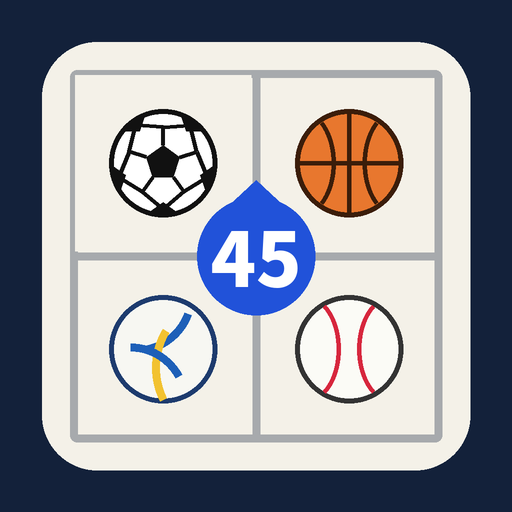
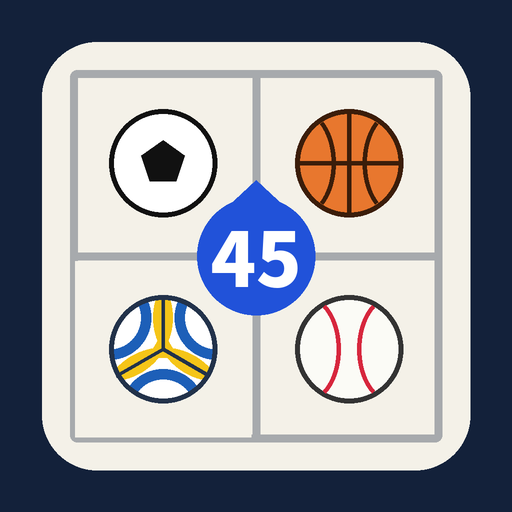
全競技の初期配置を試合開始時の配置に（ジャンプボール・スローオフ・サーブ・キックオフ）、「試合開始の配置に戻す」を追加、Multiアイコンのバレーボールを描き直しサッカーボールを元に戻す
Claude-Session: https://claude.ai/code/session_01TVagV47E5hzmgnrl5k2lgn

diff --git a/index.html b/index.html
@@ -212,6 +212,7 @@ a.btn{color:var(--ink)}a.btn.primary{color:var(--accent-ink)}
   <button class="mi" id="bMulti" role="menuitemcheckbox" aria-pressed="false" data-i18n="multi"></button>
   <button class="mi" id="bFace" role="menuitem" data-i18n="faceBall"></button>
   <button class="mi" id="bRotate" role="menuitem" hidden data-i18n="rotate"></button>
+  <button class="mi" id="bReset" role="menuitem" data-i18n="resetStart"></button>
   <button class="mi" id="bClearDraw" role="menuitem" data-i18n="clearDraw"></button>
   <hr>
   <button class="mi" id="bNames" role="menuitemcheckbox" aria-pressed="true" data-i18n="showNames"></button>
@@ -399,12 +400,16 @@ const POS={
 };
 const FN=(l,s)=>({l,s});
 /* ---- basketball (28 x 15 m, attack →, basket at x=.944) ---- */
+const bkc=(dx,dy,pos)=>[(14+dx)/28,(7.5+dy)/15,pos], bkr=(deg,pos)=>bkc(3*Math.cos(deg*Math.PI/180),3*Math.sin(deg*Math.PI/180),pos);
+const BK_TIP=PL('ジャンプボール（試合開始）','Jump ball (tip-off)','跳球（开场）','跳球（開場）');
 const BK_OFF={5:{
+ tip:FN(BK_TIP,[bkr(135,'PG'),bkr(225,'SG'),bkr(45,'SF'),bkr(315,'PF'),bkc(-.6,0,'C')]),
  '5out':FN(PL('5アウト','5-out','五外','五外'),[[.675,.5,'PG'],[.768,.827,'SG'],[.768,.173,'SF'],[.93,.94,'PF'],[.93,.06,'C']]),
  '4out':FN(PL('4アウト1イン','4-out 1-in','四外一内','四外一內'),[[.675,.5,'PG'],[.768,.827,'SG'],[.768,.173,'SF'],[.93,.94,'PF'],[.885,.36,'C']]),
  horns:FN(PL('ホーンズ','Horns','牛角','牛角'),[[.675,.5,'PG'],[.93,.94,'SG'],[.93,.06,'SF'],[.79,.337,'PF'],[.79,.663,'C']]),
  '131':FN(PL('1-3-1','1-3-1','1-3-1','1-3-1'),[[.68,.5,'PG'],[.8,.88,'SG'],[.8,.12,'SF'],[.94,.3,'PF'],[.79,.5,'C']])}};
 const BK_DEF={5:{
+ tip:FN(BK_TIP,[bkr(180,'PG'),bkr(90,'SG'),bkr(270,'SF'),bkr(0,'PF'),bkc(.6,0,'C')]),
  man:FN(PL('マンツーマン','Man-to-man','人盯人','人盯人'),[[.756,.5,'PG'],[.82,.73,'SG'],[.82,.27,'SF'],[.934,.8,'PF'],[.934,.2,'C']]),
  z23:FN(PL('2-3ゾーン','2-3 zone','2-3联防','2-3區域'),[[.78,.35,'PG'],[.78,.65,'SG'],[.92,.2,'SF'],[.92,.8,'PF'],[.93,.5,'C']]),
  z32:FN(PL('3-2ゾーン','3-2 zone','3-2联防','3-2區域'),[[.73,.5,'PG'],[.79,.2,'SG'],[.79,.8,'SF'],[.9,.37,'PF'],[.9,.63,'C']]),
@@ -413,6 +418,7 @@ const BK_DEF={5:{
 const hbArc=(r,deg)=>[(40-r*Math.cos(deg*Math.PI/180))/40,(10+r*Math.sin(deg*Math.PI/180))/20];
 const hbD=(r,deg)=>[...hbArc(r,deg),'D'];
 const HB_OFF={7:{
+ throwoff:FN(PL('スローオフ（試合開始）','Throw-off (start)','开球（开场）','開球（開場）'),[[.0125,.5,'GK'],[.45,.06,'LW'],[.38,.27,'LB'],[.49,.5,'CB'],[.38,.73,'RB'],[.45,.94,'RW'],[.44,.4,'PV']]),
  '33':FN(PL('3-3','3-3','3-3','3-3'),[[.0125,.5,'GK'],[.95,.06,'LW'],[.75,.26,'LB'],[.72,.5,'CB'],[.75,.74,'RB'],[.95,.94,'RW'],[.84,.5,'PV']]),
  '2pv':FN(PL('2ポスト','Two pivots','双底线','雙底線'),[[.0125,.5,'GK'],[.95,.06,'LW'],[.74,.3,'LB'],[.74,.7,'RB'],[.95,.94,'RW'],[.84,.38,'PV'],[.84,.62,'PV']])}};
 const HB_DEF={7:{
@@ -423,8 +429,10 @@ const HB_DEF={7:{
 const V6=[[.46,.7,'S'],[.875,.7,'OH'],[.875,.5,'MB'],[.875,.3,'OP'],[.46,.3,'OH'],[.46,.5,'MB']]; // slot k = rotation position k+1
 const VB6={6:{base:FN(PL('ローテーション1（Sが後衛ライト）','Rotation 1 (setter in 1)','轮转1（二传在1号位）','輪轉1（舉球員在1號位）'),V6)},
  7:{base:FN(PL('ローテーション1＋リベロ','Rotation 1 + libero','轮转1＋自由人','輪轉1＋自由球員'),[...V6,[.12,.9,'L']])}};
+const VB6S={6:{serve:FN(PL('サーブ（ローテーション1・試合開始）','Serve (rotation 1, start)','发球（轮转1・开场）','發球（輪轉1・開場）'),[[.13,.7,'S'],...V6.slice(1)]),...VB6[6]},7:VB6[7]};
 const VB9={9:{base:FN(PL('基本（前衛・中衛・後衛）','Basic (3 rows)','基本（三排）','基本（三排）'),
  [[.885,.33,'FL'],[.885,.5,'FC'],[.885,.67,'FR'],[.615,.33,'ML'],[.615,.5,'MC'],[.615,.67,'MR'],[.31,.33,'BL'],[.31,.5,'BC'],[.31,.67,'BR']])}};
+const VB9S={9:{serve:FN(PL('サーブ（試合開始）','Serve (start)','发球（开场）','發球（開場）'),[...VB9[9].base.s.slice(0,8),[.1,.67,'BR']]),...VB9[9]}};
 /* ---- dodgeball (court 20 x 10 m + 3 m outer zone: 26 x 16 m) ---- */
 function dgInner(n){const r=[],rows=Math.max(1,Math.ceil(n/4));let k=0;
   for(let i=0;i<rows;i++){const m=Math.ceil((n-k)/(rows-i));for(let j=0;j<m;j++)r.push([.36+(rows==1?.27:i*(.44/(rows-1))),.26+(j+.5)*(.48/m),'IN']);k+=m}return r}
@@ -443,9 +451,11 @@ function dgReclass(){
 }
 const dgGen=(ti,n)=>n<2?dgInner(n):[...dgInner(n-1),DG_OUT[0]];
 /* ---- tag rugby (field 40 x 30 m + 5 m in-goal: 50 x 30 m) ---- */
+const TR0={5:{start:FN(PL('キックオフ（試合開始）','Kick-off (start)','开球（开场）','開球（開場）'),[[.8,.15,'X'],[.8,.325,'X'],[.98,.5,'X'],[.8,.675,'X'],[.8,.85,'X']])}};
 const TR={5:{flat:FN(PL('フラット（横一列）','Flat line','平行站位','平行站位'),[[.8,.15,'X'],[.8,.325,'X'],[.8,.5,'X'],[.8,.675,'X'],[.8,.85,'X']]),
  wedge:FN(PL('くさび形','Wedge','楔形','楔形'),[[.86,.5,'X'],[.77,.34,'X'],[.77,.66,'X'],[.68,.18,'X'],[.68,.82,'X']]),
  deep:FN(PL('2列（深め）','Two lines (deep)','两排（纵深）','兩排（縱深）'),[[.84,.3,'X'],[.84,.7,'X'],[.7,.15,'X'],[.7,.5,'X'],[.7,.85,'X']])}};
+TR0[5]={...TR0[5],...TR[5]};
 const trGen=(ti,n)=>Array.from({length:n},(_,j)=>[.8,(j+.5)/n,'X']);
 /* ---- baseball family: home at the bottom, field opens upward ---- */
 function bbSport(o){
@@ -478,23 +488,23 @@ const SPORTS={
  soccer:{len:105,wid:68,kind:'fb',emoji:'⚽',zones:true},
  soccer8:{len:68,wid:50,kind:'fb',emoji:'⚽',def:[[8,'3-3-1'],[8,'2-3-2']],draw:drawSoccer8},
  futsal:{len:40,wid:20,kind:'fb',emoji:'🥅',surface:'wood',cnt:[[1,7],[1,7]],def:[[5,'1-2-1'],[5,'2-2']],draw:drawFutsal},
- basketball:{len:28,wid:15,kind:'abs',emoji:'🏀',ball:'basket',surface:'wood',names:['offense','defense'],cnt:[[1,5],[1,5]],def:[[5,'5out'],[5,'man']],
-   forms:[BK_OFF,BK_DEF],face:[[.944,.5],null],ballXY:[.64,.5],regs:['PG','SG','SF','PF','C'],shape:BK_SHAPE,draw:()=>drawBasket(true)},
- minibasket:{len:28,wid:15,kind:'abs',emoji:'🏀',ball:'basket',surface:'wood',names:['offense','defense'],cnt:[[1,5],[1,5]],def:[[5,'5out'],[5,'man']],
-   forms:[BK_OFF,BK_DEF],face:[[.944,.5],null],ballXY:[.64,.5],regs:['PG','SG','SF','PF','C'],shape:BK_SHAPE,draw:()=>drawBasket(false)},
- volley6:{len:24,wid:15,kind:'own',emoji:'🏐',ball:'volley',surface:'volley',cnt:[[1,7],[1,7]],def:[[6,'base'],[6,'base']],forms:[VB6,VB6],rotate:true,
-   ballXY:[.15,.7],regs:['S','OH','MB','OP','L'],shape:{S:'FW',OH:'MF',OP:'MF',MB:'DF',L:'GK'},draw:()=>drawVolley(6)},
- volley9:{len:26,wid:15.5,kind:'own',emoji:'🏐',ball:'volley',surface:'volley',cnt:[[1,9],[1,9]],def:[[9,'base'],[9,'base']],forms:[VB9,VB9],
-   ballXY:[.08,.6],regs:['FL','FC','FR','ML','MC','MR','BL','BC','BR'],shape:{FL:'FW',FC:'FW',FR:'FW',ML:'MF',MC:'MF',MR:'MF',BL:'DF',BC:'DF',BR:'DF'},draw:()=>drawVolley(9)},
- handball:{len:40,wid:20,kind:'abs',emoji:'🤾',ball:'hand',surface:'wood',names:['offense','defense'],cnt:[[1,7],[1,7]],def:[[7,'33'],[7,'60']],
-   forms:[HB_OFF,HB_DEF],face:[[1,.5],null],ballXY:[.69,.5],regs:['GK','LW','LB','CB','RB','RW','PV','D'],shape:{GK:'GK',LW:'FW',RW:'FW',PV:'FW',LB:'MF',CB:'MF',RB:'MF',D:'DF'},draw:drawHandball},
+ basketball:{len:28,wid:15,kind:'abs',emoji:'🏀',ball:'basket',surface:'wood',names:['offense','defense'],cnt:[[1,5],[1,5]],def:[[5,'tip'],[5,'tip']],
+   forms:[BK_OFF,BK_DEF],face:[[.944,.5],null],ballXY:[.5,.5],regs:['PG','SG','SF','PF','C'],shape:BK_SHAPE,draw:()=>drawBasket(true)},
+ minibasket:{len:28,wid:15,kind:'abs',emoji:'🏀',ball:'basket',surface:'wood',names:['offense','defense'],cnt:[[1,5],[1,5]],def:[[5,'tip'],[5,'tip']],
+   forms:[BK_OFF,BK_DEF],face:[[.944,.5],null],ballXY:[.5,.5],regs:['PG','SG','SF','PF','C'],shape:BK_SHAPE,draw:()=>drawBasket(false)},
+ volley6:{len:24,wid:15,kind:'own',emoji:'🏐',ball:'volley',surface:'volley',cnt:[[1,7],[1,7]],def:[[6,'serve'],[6,'base']],forms:[VB6S,VB6],rotate:true,
+   ballXY:[.075,.63],regs:['S','OH','MB','OP','L'],shape:{S:'FW',OH:'MF',OP:'MF',MB:'DF',L:'GK'},draw:()=>drawVolley(6)},
+ volley9:{len:26,wid:15.5,kind:'own',emoji:'🏐',ball:'volley',surface:'volley',cnt:[[1,9],[1,9]],def:[[9,'serve'],[9,'base']],forms:[VB9S,VB9],
+   ballXY:[.06,.6],regs:['FL','FC','FR','ML','MC','MR','BL','BC','BR'],shape:{FL:'FW',FC:'FW',FR:'FW',ML:'MF',MC:'MF',MR:'MF',BL:'DF',BC:'DF',BR:'DF'},draw:()=>drawVolley(9)},
+ handball:{len:40,wid:20,kind:'abs',emoji:'🤾',ball:'hand',surface:'wood',names:['offense','defense'],cnt:[[1,7],[1,7]],def:[[7,'throwoff'],[7,'60']],
+   forms:[HB_OFF,HB_DEF],face:[[1,.5],null],ballXY:[.52,.5],regs:['GK','LW','LB','CB','RB','RW','PV','D'],shape:{GK:'GK',LW:'FW',RW:'FW',PV:'FW',LB:'MF',CB:'MF',RB:'MF',D:'DF'},draw:drawHandball},
  dodgeball:{len:26,wid:16,kind:'own',emoji:'🔴',ball:'dodge',surface:'wood',cnt:[[1,15],[1,15]],def:[[12,'o1'],[12,'o1']],forms:[DG,DG],gen:dgGen,
    ballXY:[.5,.5],regs:['IN','OUT'],shape:{IN:'MF',OUT:'FW'},draw:drawDodge},
  baseball:bbSport({b:27.43,m:18.44,lf:76,cf:90}), /* outfield drawn shorter than real so the infield stays readable */
  youthbaseball:bbSport({b:23,m:16,lf:62,cf:72}),
  softball:bbSport({b:18.29,m:13.11,lf:50,cf:56,ball:'softball'}),
- tagrugby:{len:50,wid:30,kind:'own',emoji:'🏉',ball:'rugby',surface:'grass',cnt:[[1,8],[1,8]],def:[[5,'flat'],[5,'flat']],forms:[TR,TR],gen:trGen,noPos:true,
-   ballXY:[.4,.5],regs:[],shape:{},draw:drawTagRugby},
+ tagrugby:{len:50,wid:30,kind:'own',emoji:'🏉',ball:'rugby',surface:'grass',cnt:[[1,8],[1,8]],def:[[5,'start'],[5,'flat']],forms:[TR0,TR],gen:trGen,noPos:true,
+   ballXY:[.52,.5],regs:[],shape:{},draw:drawTagRugby},
  hockey:{len:91.4,wid:55,kind:'fb',emoji:'🏑',ball:'hockey',surface:'turf',draw:drawHockey}
 };
 SPORTS.baseball.emoji=SPORTS.youthbaseball.emoji='⚾';SPORTS.softball.emoji='🥎';
@@ -732,25 +742,25 @@ rotate:'ローテーション（時計回りに1つ）',offense:'オフェンス
 formHintG:'並び方を選ぶと、その形に並び直します。プリセットにない人数は自動で並びます。',rosterHintG:'ポジションを入れると、並び方を変えても そのポジションの場所に並びます。入れ終わったら「この配置に並べ直す」で並び直せます。',
 tOtherSport:'このファイルは「{s}」用です。45 Tactics Multiで開いてください',tSport:'{s}に切り替えました',
 print:'印刷・画像で保存',pTitle:'タイトル',pTitlePh:'例：11/3 練習試合',pDate:'日付',pContent:'内容',pCurrent:'今の盤面',pScenes:'保存した場面',pPer:'1ページの図',pRoster:'名簿を入れる',pMemo:'メモ欄を入れる',pBW:'白黒向けにする',pDo:'印刷・PDF',pImg:'画像で保存',
-pHint:'印刷画面で「PDFとして保存」を選ぶとPDFになります。iPhone・iPadで印刷できないときは「画像で保存」をお使いください。',memo:'メモ',tImg:'画像を書き出しました',noScenes:'保存した場面がありません',dgCount:'{t}：内野{a}人・外野{b}人'});
+pHint:'印刷画面で「PDFとして保存」を選ぶとPDFになります。iPhone・iPadで印刷できないときは「画像で保存」をお使いください。',memo:'メモ',tImg:'画像を書き出しました',noScenes:'保存した場面がありません',dgCount:'{t}：内野{a}人・外野{b}人',resetStart:'試合開始の配置に戻す',tResetStart:'試合開始の配置に戻しました（元に戻す で復元できます）'});
 Object.assign(I18N.en,{sport:'Sport',chooseSport:'Choose a sport',titleM:'Sports tactics board',aboutTextM:'A free, ad-free tactics board for many sports. Everything you enter is saved only on this device and is never visible to anyone else.',
 rotate:'Rotate (one position clockwise)',offense:'Offense',defense:'Defense',bbDef:'Fielding',bbOff:'Batting',bg_court:'Court (default)',bg_field:'Field (default)',
 formHintG:'Choose a formation to line the players up. Other team sizes are arranged automatically.',rosterHintG:'Set a position and the player goes to that spot when you change formation. Tap “Reset to this formation” when you are done.',
 tOtherSport:'This file is for {s}. Please open it in 45 Tactics Multi',tSport:'Switched to {s}',
 print:'Print / save image',pTitle:'Title',pTitlePh:'e.g. Practice match, 3 Nov',pDate:'Date',pContent:'Content',pCurrent:'Current board',pScenes:'Saved scenes',pPer:'Boards per page',pRoster:'Include roster',pMemo:'Include notes box',pBW:'Black & white',pDo:'Print / PDF',pImg:'Save as image',
-pHint:'Choose “Save as PDF” in the print dialog to make a PDF. If printing does not work on iPhone/iPad, use “Save as image”.',memo:'Notes',tImg:'Image exported',noScenes:'No saved scenes',dgCount:'{t}: {a} in / {b} out'});
+pHint:'Choose “Save as PDF” in the print dialog to make a PDF. If printing does not work on iPhone/iPad, use “Save as image”.',memo:'Notes',tImg:'Image exported',noScenes:'No saved scenes',dgCount:'{t}: {a} in / {b} out',resetStart:'Reset to start positions',tResetStart:'Reset to start positions (Undo to restore)'});
 Object.assign(I18N['zh-Hans'],{sport:'项目',chooseSport:'选择运动项目',titleM:'运动战术板',aboutTextM:'免费、无广告、支持多种运动的战术板。输入的内容只保存在本设备中，其他人看不到。',
 rotate:'轮转（顺时针移动一个位置）',offense:'进攻',defense:'防守',bbDef:'守备',bbOff:'进攻',bg_court:'球场（默认）',bg_field:'场地（默认）',
 formHintG:'选择阵型后按该形状重新排列。预设以外的人数会自动排列。',rosterHintG:'设置位置后，更换阵型时球员会站到该位置。设置完成后点击“按此阵型重新排列”。',
 tOtherSport:'此文件用于「{s}」，请在 45 Tactics Multi 中打开',tSport:'已切换为{s}',
 print:'打印・保存图片',pTitle:'标题',pTitlePh:'例：11/3 练习赛',pDate:'日期',pContent:'内容',pCurrent:'当前布阵',pScenes:'已保存的场景',pPer:'每页图数',pRoster:'包含名单',pMemo:'包含备注栏',pBW:'黑白打印',pDo:'打印・PDF',pImg:'保存为图片',
-pHint:'在打印画面选择“存储为PDF”即可生成PDF。iPhone/iPad 无法打印时，请使用“保存为图片”。',memo:'备注',tImg:'已导出图片',noScenes:'没有已保存的场景',dgCount:'{t}：内场{a}人・外场{b}人'});
+pHint:'在打印画面选择“存储为PDF”即可生成PDF。iPhone/iPad 无法打印时，请使用“保存为图片”。',memo:'备注',tImg:'已导出图片',noScenes:'没有已保存的场景',dgCount:'{t}：内场{a}人・外场{b}人',resetStart:'恢复开场站位',tResetStart:'已恢复开场站位（可撤销）'});
 Object.assign(I18N['zh-Hant'],{sport:'項目',chooseSport:'選擇運動項目',titleM:'運動戰術板',aboutTextM:'免費、無廣告、支援多種運動的戰術板。輸入的內容只會儲存在這台裝置中，其他人看不到。',
 rotate:'輪轉（順時針移動一個位置）',offense:'進攻',defense:'防守',bbDef:'守備',bbOff:'進攻',bg_court:'球場（預設）',bg_field:'場地（預設）',
 formHintG:'選擇陣型後依該形狀重新排列。預設以外的人數會自動排列。',rosterHintG:'設定位置後，變更陣型時球員會站到該位置。設定完成後點「依此陣型重新排列」。',
 tOtherSport:'此檔案用於「{s}」，請在 45 Tactics Multi 中開啟',tSport:'已切換為{s}',
 print:'列印・儲存圖片',pTitle:'標題',pTitlePh:'例：11/3 練習賽',pDate:'日期',pContent:'內容',pCurrent:'目前布陣',pScenes:'已儲存的場景',pPer:'每頁圖數',pRoster:'包含名單',pMemo:'包含備註欄',pBW:'黑白列印',pDo:'列印・PDF',pImg:'儲存為圖片',
-pHint:'在列印畫面選擇「儲存為PDF」即可產生PDF。iPhone/iPad 無法列印時，請使用「儲存為圖片」。',memo:'備註',tImg:'已匯出圖片',noScenes:'沒有已儲存的場景',dgCount:'{t}：內場{a}人・外場{b}人'});
+pHint:'在列印畫面選擇「儲存為PDF」即可產生PDF。iPhone/iPad 無法列印時，請使用「儲存為圖片」。',memo:'備註',tImg:'已匯出圖片',noScenes:'沒有已儲存的場景',dgCount:'{t}：內場{a}人・外場{b}人',resetStart:'恢復開場站位',tResetStart:'已恢復開場站位（可復原）'});
 const LANG_NAMES={ja:'日本語',en:'English','zh-Hans':'简体中文','zh-Hant':'繁體中文'};
 function detectLang(){
   const l=(navigator.language||'en').toLowerCase();
@@ -1502,6 +1512,9 @@ function switchSport(id){
 $('bSport').onclick=$('bSport2').onclick=()=>{renderSports();$('dSport').showModal()};
 $('sportList').addEventListener('click',e=>{const b=e.target.closest('[data-sport]');if(!b)return;$('dSport').close();if(b.dataset.sport!=SPID){switchSport(b.dataset.sport);toast(t('tSport',{s:sportName(SPID)}))}});
 $('bRotate').onclick=()=>rotateTeam(0);
+$('bReset').onclick=()=>{pushUndo();
+  S.teams.forEach((tm,ti)=>{const f=SP.def[ti];if(tm.count==f[0])tm.formation=f[1];else{const fs=formsFor(tm.count,ti);tm.formation=fs[0]||'auto'}tm.players.forEach(p=>{delete p.role;delete p.home});applyFormation(ti)});
+  S.ball={x:SP.ballXY[0]*W,y:SP.ballXY[1]*H};sel=null;msel=null;render();save();toast(t('tResetStart'))};
 
 /* ---------- print & image ---------- */
 const BOARD_CSS='text{font-family:"Zen Kaku Gothic New","Hiragino Sans","Hiragino Kaku Gothic ProN",system-ui,sans-serif}.num{font-family:"Barlow Condensed","Arial Narrow",sans-serif;font-weight:700;text-anchor:middle}.nm{font-weight:700;text-anchor:middle;fill:#fff;paint-order:stroke;stroke:#123A24;stroke-width:.5px;stroke-linejoin:round}.note{font-weight:700;text-anchor:middle;paint-order:stroke;stroke:rgba(0,0,0,.72);stroke-width:.6px;stroke-linejoin:round}.zl{font-weight:700;fill:rgba(255,255,255,.6)}';

diff --git a/multi/index.html b/multi/index.html
@@ -213,6 +213,7 @@ a.btn{color:var(--ink)}a.btn.primary{color:var(--accent-ink)}
   <button class="mi" id="bMulti" role="menuitemcheckbox" aria-pressed="false" data-i18n="multi"></button>
   <button class="mi" id="bFace" role="menuitem" data-i18n="faceBall"></button>
   <button class="mi" id="bRotate" role="menuitem" hidden data-i18n="rotate"></button>
+  <button class="mi" id="bReset" role="menuitem" data-i18n="resetStart"></button>
   <button class="mi" id="bClearDraw" role="menuitem" data-i18n="clearDraw"></button>
   <hr>
   <button class="mi" id="bNames" role="menuitemcheckbox" aria-pressed="true" data-i18n="showNames"></button>
@@ -400,12 +401,16 @@ const POS={
 };
 const FN=(l,s)=>({l,s});
 /* ---- basketball (28 x 15 m, attack →, basket at x=.944) ---- */
+const bkc=(dx,dy,pos)=>[(14+dx)/28,(7.5+dy)/15,pos], bkr=(deg,pos)=>bkc(3*Math.cos(deg*Math.PI/180),3*Math.sin(deg*Math.PI/180),pos);
+const BK_TIP=PL('ジャンプボール（試合開始）','Jump ball (tip-off)','跳球（开场）','跳球（開場）');
 const BK_OFF={5:{
+ tip:FN(BK_TIP,[bkr(135,'PG'),bkr(225,'SG'),bkr(45,'SF'),bkr(315,'PF'),bkc(-.6,0,'C')]),
  '5out':FN(PL('5アウト','5-out','五外','五外'),[[.675,.5,'PG'],[.768,.827,'SG'],[.768,.173,'SF'],[.93,.94,'PF'],[.93,.06,'C']]),
  '4out':FN(PL('4アウト1イン','4-out 1-in','四外一内','四外一內'),[[.675,.5,'PG'],[.768,.827,'SG'],[.768,.173,'SF'],[.93,.94,'PF'],[.885,.36,'C']]),
  horns:FN(PL('ホーンズ','Horns','牛角','牛角'),[[.675,.5,'PG'],[.93,.94,'SG'],[.93,.06,'SF'],[.79,.337,'PF'],[.79,.663,'C']]),
  '131':FN(PL('1-3-1','1-3-1','1-3-1','1-3-1'),[[.68,.5,'PG'],[.8,.88,'SG'],[.8,.12,'SF'],[.94,.3,'PF'],[.79,.5,'C']])}};
 const BK_DEF={5:{
+ tip:FN(BK_TIP,[bkr(180,'PG'),bkr(90,'SG'),bkr(270,'SF'),bkr(0,'PF'),bkc(.6,0,'C')]),
  man:FN(PL('マンツーマン','Man-to-man','人盯人','人盯人'),[[.756,.5,'PG'],[.82,.73,'SG'],[.82,.27,'SF'],[.934,.8,'PF'],[.934,.2,'C']]),
  z23:FN(PL('2-3ゾーン','2-3 zone','2-3联防','2-3區域'),[[.78,.35,'PG'],[.78,.65,'SG'],[.92,.2,'SF'],[.92,.8,'PF'],[.93,.5,'C']]),
  z32:FN(PL('3-2ゾーン','3-2 zone','3-2联防','3-2區域'),[[.73,.5,'PG'],[.79,.2,'SG'],[.79,.8,'SF'],[.9,.37,'PF'],[.9,.63,'C']]),
@@ -414,6 +419,7 @@ const BK_DEF={5:{
 const hbArc=(r,deg)=>[(40-r*Math.cos(deg*Math.PI/180))/40,(10+r*Math.sin(deg*Math.PI/180))/20];
 const hbD=(r,deg)=>[...hbArc(r,deg),'D'];
 const HB_OFF={7:{
+ throwoff:FN(PL('スローオフ（試合開始）','Throw-off (start)','开球（开场）','開球（開場）'),[[.0125,.5,'GK'],[.45,.06,'LW'],[.38,.27,'LB'],[.49,.5,'CB'],[.38,.73,'RB'],[.45,.94,'RW'],[.44,.4,'PV']]),
  '33':FN(PL('3-3','3-3','3-3','3-3'),[[.0125,.5,'GK'],[.95,.06,'LW'],[.75,.26,'LB'],[.72,.5,'CB'],[.75,.74,'RB'],[.95,.94,'RW'],[.84,.5,'PV']]),
  '2pv':FN(PL('2ポスト','Two pivots','双底线','雙底線'),[[.0125,.5,'GK'],[.95,.06,'LW'],[.74,.3,'LB'],[.74,.7,'RB'],[.95,.94,'RW'],[.84,.38,'PV'],[.84,.62,'PV']])}};
 const HB_DEF={7:{
@@ -424,8 +430,10 @@ const HB_DEF={7:{
 const V6=[[.46,.7,'S'],[.875,.7,'OH'],[.875,.5,'MB'],[.875,.3,'OP'],[.46,.3,'OH'],[.46,.5,'MB']]; // slot k = rotation position k+1
 const VB6={6:{base:FN(PL('ローテーション1（Sが後衛ライト）','Rotation 1 (setter in 1)','轮转1（二传在1号位）','輪轉1（舉球員在1號位）'),V6)},
  7:{base:FN(PL('ローテーション1＋リベロ','Rotation 1 + libero','轮转1＋自由人','輪轉1＋自由球員'),[...V6,[.12,.9,'L']])}};
+const VB6S={6:{serve:FN(PL('サーブ（ローテーション1・試合開始）','Serve (rotation 1, start)','发球（轮转1・开场）','發球（輪轉1・開場）'),[[.13,.7,'S'],...V6.slice(1)]),...VB6[6]},7:VB6[7]};
 const VB9={9:{base:FN(PL('基本（前衛・中衛・後衛）','Basic (3 rows)','基本（三排）','基本（三排）'),
  [[.885,.33,'FL'],[.885,.5,'FC'],[.885,.67,'FR'],[.615,.33,'ML'],[.615,.5,'MC'],[.615,.67,'MR'],[.31,.33,'BL'],[.31,.5,'BC'],[.31,.67,'BR']])}};
+const VB9S={9:{serve:FN(PL('サーブ（試合開始）','Serve (start)','发球（开场）','發球（開場）'),[...VB9[9].base.s.slice(0,8),[.1,.67,'BR']]),...VB9[9]}};
 /* ---- dodgeball (court 20 x 10 m + 3 m outer zone: 26 x 16 m) ---- */
 function dgInner(n){const r=[],rows=Math.max(1,Math.ceil(n/4));let k=0;
   for(let i=0;i<rows;i++){const m=Math.ceil((n-k)/(rows-i));for(let j=0;j<m;j++)r.push([.36+(rows==1?.27:i*(.44/(rows-1))),.26+(j+.5)*(.48/m),'IN']);k+=m}return r}
@@ -444,9 +452,11 @@ function dgReclass(){
 }
 const dgGen=(ti,n)=>n<2?dgInner(n):[...dgInner(n-1),DG_OUT[0]];
 /* ---- tag rugby (field 40 x 30 m + 5 m in-goal: 50 x 30 m) ---- */
+const TR0={5:{start:FN(PL('キックオフ（試合開始）','Kick-off (start)','开球（开场）','開球（開場）'),[[.8,.15,'X'],[.8,.325,'X'],[.98,.5,'X'],[.8,.675,'X'],[.8,.85,'X']])}};
 const TR={5:{flat:FN(PL('フラット（横一列）','Flat line','平行站位','平行站位'),[[.8,.15,'X'],[.8,.325,'X'],[.8,.5,'X'],[.8,.675,'X'],[.8,.85,'X']]),
  wedge:FN(PL('くさび形','Wedge','楔形','楔形'),[[.86,.5,'X'],[.77,.34,'X'],[.77,.66,'X'],[.68,.18,'X'],[.68,.82,'X']]),
  deep:FN(PL('2列（深め）','Two lines (deep)','两排（纵深）','兩排（縱深）'),[[.84,.3,'X'],[.84,.7,'X'],[.7,.15,'X'],[.7,.5,'X'],[.7,.85,'X']])}};
+TR0[5]={...TR0[5],...TR[5]};
 const trGen=(ti,n)=>Array.from({length:n},(_,j)=>[.8,(j+.5)/n,'X']);
 /* ---- baseball family: home at the bottom, field opens upward ---- */
 function bbSport(o){
@@ -479,23 +489,23 @@ const SPORTS={
  soccer:{len:105,wid:68,kind:'fb',emoji:'⚽',zones:true},
  soccer8:{len:68,wid:50,kind:'fb',emoji:'⚽',def:[[8,'3-3-1'],[8,'2-3-2']],draw:drawSoccer8},
  futsal:{len:40,wid:20,kind:'fb',emoji:'🥅',surface:'wood',cnt:[[1,7],[1,7]],def:[[5,'1-2-1'],[5,'2-2']],draw:drawFutsal},
- basketball:{len:28,wid:15,kind:'abs',emoji:'🏀',ball:'basket',surface:'wood',names:['offense','defense'],cnt:[[1,5],[1,5]],def:[[5,'5out'],[5,'man']],
-   forms:[BK_OFF,BK_DEF],face:[[.944,.5],null],ballXY:[.64,.5],regs:['PG','SG','SF','PF','C'],shape:BK_SHAPE,draw:()=>drawBasket(true)},
- minibasket:{len:28,wid:15,kind:'abs',emoji:'🏀',ball:'basket',surface:'wood',names:['offense','defense'],cnt:[[1,5],[1,5]],def:[[5,'5out'],[5,'man']],
-   forms:[BK_OFF,BK_DEF],face:[[.944,.5],null],ballXY:[.64,.5],regs:['PG','SG','SF','PF','C'],shape:BK_SHAPE,draw:()=>drawBasket(false)},
- volley6:{len:24,wid:15,kind:'own',emoji:'🏐',ball:'volley',surface:'volley',cnt:[[1,7],[1,7]],def:[[6,'base'],[6,'base']],forms:[VB6,VB6],rotate:true,
-   ballXY:[.15,.7],regs:['S','OH','MB','OP','L'],shape:{S:'FW',OH:'MF',OP:'MF',MB:'DF',L:'GK'},draw:()=>drawVolley(6)},
- volley9:{len:26,wid:15.5,kind:'own',emoji:'🏐',ball:'volley',surface:'volley',cnt:[[1,9],[1,9]],def:[[9,'base'],[9,'base']],forms:[VB9,VB9],
-   ballXY:[.08,.6],regs:['FL','FC','FR','ML','MC','MR','BL','BC','BR'],shape:{FL:'FW',FC:'FW',FR:'FW',ML:'MF',MC:'MF',MR:'MF',BL:'DF',BC:'DF',BR:'DF'},draw:()=>drawVolley(9)},
- handball:{len:40,wid:20,kind:'abs',emoji:'🤾',ball:'hand',surface:'wood',names:['offense','defense'],cnt:[[1,7],[1,7]],def:[[7,'33'],[7,'60']],
-   forms:[HB_OFF,HB_DEF],face:[[1,.5],null],ballXY:[.69,.5],regs:['GK','LW','LB','CB','RB','RW','PV','D'],shape:{GK:'GK',LW:'FW',RW:'FW',PV:'FW',LB:'MF',CB:'MF',RB:'MF',D:'DF'},draw:drawHandball},
+ basketball:{len:28,wid:15,kind:'abs',emoji:'🏀',ball:'basket',surface:'wood',names:['offense','defense'],cnt:[[1,5],[1,5]],def:[[5,'tip'],[5,'tip']],
+   forms:[BK_OFF,BK_DEF],face:[[.944,.5],null],ballXY:[.5,.5],regs:['PG','SG','SF','PF','C'],shape:BK_SHAPE,draw:()=>drawBasket(true)},
+ minibasket:{len:28,wid:15,kind:'abs',emoji:'🏀',ball:'basket',surface:'wood',names:['offense','defense'],cnt:[[1,5],[1,5]],def:[[5,'tip'],[5,'tip']],
+   forms:[BK_OFF,BK_DEF],face:[[.944,.5],null],ballXY:[.5,.5],regs:['PG','SG','SF','PF','C'],shape:BK_SHAPE,draw:()=>drawBasket(false)},
+ volley6:{len:24,wid:15,kind:'own',emoji:'🏐',ball:'volley',surface:'volley',cnt:[[1,7],[1,7]],def:[[6,'serve'],[6,'base']],forms:[VB6S,VB6],rotate:true,
+   ballXY:[.075,.63],regs:['S','OH','MB','OP','L'],shape:{S:'FW',OH:'MF',OP:'MF',MB:'DF',L:'GK'},draw:()=>drawVolley(6)},
+ volley9:{len:26,wid:15.5,kind:'own',emoji:'🏐',ball:'volley',surface:'volley',cnt:[[1,9],[1,9]],def:[[9,'serve'],[9,'base']],forms:[VB9S,VB9],
+   ballXY:[.06,.6],regs:['FL','FC','FR','ML','MC','MR','BL','BC','BR'],shape:{FL:'FW',FC:'FW',FR:'FW',ML:'MF',MC:'MF',MR:'MF',BL:'DF',BC:'DF',BR:'DF'},draw:()=>drawVolley(9)},
+ handball:{len:40,wid:20,kind:'abs',emoji:'🤾',ball:'hand',surface:'wood',names:['offense','defense'],cnt:[[1,7],[1,7]],def:[[7,'throwoff'],[7,'60']],
+   forms:[HB_OFF,HB_DEF],face:[[1,.5],null],ballXY:[.52,.5],regs:['GK','LW','LB','CB','RB','RW','PV','D'],shape:{GK:'GK',LW:'FW',RW:'FW',PV:'FW',LB:'MF',CB:'MF',RB:'MF',D:'DF'},draw:drawHandball},
  dodgeball:{len:26,wid:16,kind:'own',emoji:'🔴',ball:'dodge',surface:'wood',cnt:[[1,15],[1,15]],def:[[12,'o1'],[12,'o1']],forms:[DG,DG],gen:dgGen,
    ballXY:[.5,.5],regs:['IN','OUT'],shape:{IN:'MF',OUT:'FW'},draw:drawDodge},
  baseball:bbSport({b:27.43,m:18.44,lf:76,cf:90}), /* outfield drawn shorter than real so the infield stays readable */
  youthbaseball:bbSport({b:23,m:16,lf:62,cf:72}),
  softball:bbSport({b:18.29,m:13.11,lf:50,cf:56,ball:'softball'}),
- tagrugby:{len:50,wid:30,kind:'own',emoji:'🏉',ball:'rugby',surface:'grass',cnt:[[1,8],[1,8]],def:[[5,'flat'],[5,'flat']],forms:[TR,TR],gen:trGen,noPos:true,
-   ballXY:[.4,.5],regs:[],shape:{},draw:drawTagRugby},
+ tagrugby:{len:50,wid:30,kind:'own',emoji:'🏉',ball:'rugby',surface:'grass',cnt:[[1,8],[1,8]],def:[[5,'start'],[5,'flat']],forms:[TR0,TR],gen:trGen,noPos:true,
+   ballXY:[.52,.5],regs:[],shape:{},draw:drawTagRugby},
  hockey:{len:91.4,wid:55,kind:'fb',emoji:'🏑',ball:'hockey',surface:'turf',draw:drawHockey}
 };
 SPORTS.baseball.emoji=SPORTS.youthbaseball.emoji='⚾';SPORTS.softball.emoji='🥎';
@@ -733,25 +743,25 @@ rotate:'ローテーション（時計回りに1つ）',offense:'オフェンス
 formHintG:'並び方を選ぶと、その形に並び直します。プリセットにない人数は自動で並びます。',rosterHintG:'ポジションを入れると、並び方を変えても そのポジションの場所に並びます。入れ終わったら「この配置に並べ直す」で並び直せます。',
 tOtherSport:'このファイルは「{s}」用です。45 Tactics Multiで開いてください',tSport:'{s}に切り替えました',
 print:'印刷・画像で保存',pTitle:'タイトル',pTitlePh:'例：11/3 練習試合',pDate:'日付',pContent:'内容',pCurrent:'今の盤面',pScenes:'保存した場面',pPer:'1ページの図',pRoster:'名簿を入れる',pMemo:'メモ欄を入れる',pBW:'白黒向けにする',pDo:'印刷・PDF',pImg:'画像で保存',
-pHint:'印刷画面で「PDFとして保存」を選ぶとPDFになります。iPhone・iPadで印刷できないときは「画像で保存」をお使いください。',memo:'メモ',tImg:'画像を書き出しました',noScenes:'保存した場面がありません',dgCount:'{t}：内野{a}人・外野{b}人'});
+pHint:'印刷画面で「PDFとして保存」を選ぶとPDFになります。iPhone・iPadで印刷できないときは「画像で保存」をお使いください。',memo:'メモ',tImg:'画像を書き出しました',noScenes:'保存した場面がありません',dgCount:'{t}：内野{a}人・外野{b}人',resetStart:'試合開始の配置に戻す',tResetStart:'試合開始の配置に戻しました（元に戻す で復元できます）'});
 Object.assign(I18N.en,{sport:'Sport',chooseSport:'Choose a sport',titleM:'Sports tactics board',aboutTextM:'A free, ad-free tactics board for many sports. Everything you enter is saved only on this device and is never visible to anyone else.',
 rotate:'Rotate (one position clockwise)',offense:'Offense',defense:'Defense',bbDef:'Fielding',bbOff:'Batting',bg_court:'Court (default)',bg_field:'Field (default)',
 formHintG:'Choose a formation to line the players up. Other team sizes are arranged automatically.',rosterHintG:'Set a position and the player goes to that spot when you change formation. Tap “Reset to this formation” when you are done.',
 tOtherSport:'This file is for {s}. Please open it in 45 Tactics Multi',tSport:'Switched to {s}',
 print:'Print / save image',pTitle:'Title',pTitlePh:'e.g. Practice match, 3 Nov',pDate:'Date',pContent:'Content',pCurrent:'Current board',pScenes:'Saved scenes',pPer:'Boards per page',pRoster:'Include roster',pMemo:'Include notes box',pBW:'Black & white',pDo:'Print / PDF',pImg:'Save as image',
-pHint:'Choose “Save as PDF” in the print dialog to make a PDF. If printing does not work on iPhone/iPad, use “Save as image”.',memo:'Notes',tImg:'Image exported',noScenes:'No saved scenes',dgCount:'{t}: {a} in / {b} out'});
+pHint:'Choose “Save as PDF” in the print dialog to make a PDF. If printing does not work on iPhone/iPad, use “Save as image”.',memo:'Notes',tImg:'Image exported',noScenes:'No saved scenes',dgCount:'{t}: {a} in / {b} out',resetStart:'Reset to start positions',tResetStart:'Reset to start positions (Undo to restore)'});
 Object.assign(I18N['zh-Hans'],{sport:'项目',chooseSport:'选择运动项目',titleM:'运动战术板',aboutTextM:'免费、无广告、支持多种运动的战术板。输入的内容只保存在本设备中，其他人看不到。',
 rotate:'轮转（顺时针移动一个位置）',offense:'进攻',defense:'防守',bbDef:'守备',bbOff:'进攻',bg_court:'球场（默认）',bg_field:'场地（默认）',
 formHintG:'选择阵型后按该形状重新排列。预设以外的人数会自动排列。',rosterHintG:'设置位置后，更换阵型时球员会站到该位置。设置完成后点击“按此阵型重新排列”。',
 tOtherSport:'此文件用于「{s}」，请在 45 Tactics Multi 中打开',tSport:'已切换为{s}',
 print:'打印・保存图片',pTitle:'标题',pTitlePh:'例：11/3 练习赛',pDate:'日期',pContent:'内容',pCurrent:'当前布阵',pScenes:'已保存的场景',pPer:'每页图数',pRoster:'包含名单',pMemo:'包含备注栏',pBW:'黑白打印',pDo:'打印・PDF',pImg:'保存为图片',
-pHint:'在打印画面选择“存储为PDF”即可生成PDF。iPhone/iPad 无法打印时，请使用“保存为图片”。',memo:'备注',tImg:'已导出图片',noScenes:'没有已保存的场景',dgCount:'{t}：内场{a}人・外场{b}人'});
+pHint:'在打印画面选择“存储为PDF”即可生成PDF。iPhone/iPad 无法打印时，请使用“保存为图片”。',memo:'备注',tImg:'已导出图片',noScenes:'没有已保存的场景',dgCount:'{t}：内场{a}人・外场{b}人',resetStart:'恢复开场站位',tResetStart:'已恢复开场站位（可撤销）'});
 Object.assign(I18N['zh-Hant'],{sport:'項目',chooseSport:'選擇運動項目',titleM:'運動戰術板',aboutTextM:'免費、無廣告、支援多種運動的戰術板。輸入的內容只會儲存在這台裝置中，其他人看不到。',
 rotate:'輪轉（順時針移動一個位置）',offense:'進攻',defense:'防守',bbDef:'守備',bbOff:'進攻',bg_court:'球場（預設）',bg_field:'場地（預設）',
 formHintG:'選擇陣型後依該形狀重新排列。預設以外的人數會自動排列。',rosterHintG:'設定位置後，變更陣型時球員會站到該位置。設定完成後點「依此陣型重新排列」。',
 tOtherSport:'此檔案用於「{s}」，請在 45 Tactics Multi 中開啟',tSport:'已切換為{s}',
 print:'列印・儲存圖片',pTitle:'標題',pTitlePh:'例：11/3 練習賽',pDate:'日期',pContent:'內容',pCurrent:'目前布陣',pScenes:'已儲存的場景',pPer:'每頁圖數',pRoster:'包含名單',pMemo:'包含備註欄',pBW:'黑白列印',pDo:'列印・PDF',pImg:'儲存為圖片',
-pHint:'在列印畫面選擇「儲存為PDF」即可產生PDF。iPhone/iPad 無法列印時，請使用「儲存為圖片」。',memo:'備註',tImg:'已匯出圖片',noScenes:'沒有已儲存的場景',dgCount:'{t}：內場{a}人・外場{b}人'});
+pHint:'在列印畫面選擇「儲存為PDF」即可產生PDF。iPhone/iPad 無法列印時，請使用「儲存為圖片」。',memo:'備註',tImg:'已匯出圖片',noScenes:'沒有已儲存的場景',dgCount:'{t}：內場{a}人・外場{b}人',resetStart:'恢復開場站位',tResetStart:'已恢復開場站位（可復原）'});
 const LANG_NAMES={ja:'日本語',en:'English','zh-Hans':'简体中文','zh-Hant':'繁體中文'};
 function detectLang(){
   const l=(navigator.language||'en').toLowerCase();
@@ -1503,6 +1513,9 @@ function switchSport(id){
 $('bSport').onclick=$('bSport2').onclick=()=>{renderSports();$('dSport').showModal()};
 $('sportList').addEventListener('click',e=>{const b=e.target.closest('[data-sport]');if(!b)return;$('dSport').close();if(b.dataset.sport!=SPID){switchSport(b.dataset.sport);toast(t('tSport',{s:sportName(SPID)}))}});
 $('bRotate').onclick=()=>rotateTeam(0);
+$('bReset').onclick=()=>{pushUndo();
+  S.teams.forEach((tm,ti)=>{const f=SP.def[ti];if(tm.count==f[0])tm.formation=f[1];else{const fs=formsFor(tm.count,ti);tm.formation=fs[0]||'auto'}tm.players.forEach(p=>{delete p.role;delete p.home});applyFormation(ti)});
+  S.ball={x:SP.ballXY[0]*W,y:SP.ballXY[1]*H};sel=null;msel=null;render();save();toast(t('tResetStart'))};
 
 /* ---------- print & image ---------- */
 const BOARD_CSS='text{font-family:"Zen Kaku Gothic New","Hiragino Sans","Hiragino Kaku Gothic ProN",system-ui,sans-serif}.num{font-family:"Barlow Condensed","Arial Narrow",sans-serif;font-weight:700;text-anchor:middle}.nm{font-weight:700;text-anchor:middle;fill:#fff;paint-order:stroke;stroke:#123A24;stroke-width:.5px;stroke-linejoin:round}.note{font-weight:700;text-anchor:middle;paint-order:stroke;stroke:rgba(0,0,0,.72);stroke-width:.6px;stroke-linejoin:round}.zl{font-weight:700;fill:rgba(255,255,255,.6)}';

diff --git a/src/app.html b/src/app.html
@@ -212,6 +212,7 @@ a.btn{color:var(--ink)}a.btn.primary{color:var(--accent-ink)}
   <button class="mi" id="bMulti" role="menuitemcheckbox" aria-pressed="false" data-i18n="multi"></button>
   <button class="mi" id="bFace" role="menuitem" data-i18n="faceBall"></button>
   <button class="mi" id="bRotate" role="menuitem" hidden data-i18n="rotate"></button>
+  <button class="mi" id="bReset" role="menuitem" data-i18n="resetStart"></button>
   <button class="mi" id="bClearDraw" role="menuitem" data-i18n="clearDraw"></button>
   <hr>
   <button class="mi" id="bNames" role="menuitemcheckbox" aria-pressed="true" data-i18n="showNames"></button>
@@ -399,12 +400,16 @@ const POS={
 };
 const FN=(l,s)=>({l,s});
 /* ---- basketball (28 x 15 m, attack →, basket at x=.944) ---- */
+const bkc=(dx,dy,pos)=>[(14+dx)/28,(7.5+dy)/15,pos], bkr=(deg,pos)=>bkc(3*Math.cos(deg*Math.PI/180),3*Math.sin(deg*Math.PI/180),pos);
+const BK_TIP=PL('ジャンプボール（試合開始）','Jump ball (tip-off)','跳球（开场）','跳球（開場）');
 const BK_OFF={5:{
+ tip:FN(BK_TIP,[bkr(135,'PG'),bkr(225,'SG'),bkr(45,'SF'),bkr(315,'PF'),bkc(-.6,0,'C')]),
  '5out':FN(PL('5アウト','5-out','五外','五外'),[[.675,.5,'PG'],[.768,.827,'SG'],[.768,.173,'SF'],[.93,.94,'PF'],[.93,.06,'C']]),
  '4out':FN(PL('4アウト1イン','4-out 1-in','四外一内','四外一內'),[[.675,.5,'PG'],[.768,.827,'SG'],[.768,.173,'SF'],[.93,.94,'PF'],[.885,.36,'C']]),
  horns:FN(PL('ホーンズ','Horns','牛角','牛角'),[[.675,.5,'PG'],[.93,.94,'SG'],[.93,.06,'SF'],[.79,.337,'PF'],[.79,.663,'C']]),
  '131':FN(PL('1-3-1','1-3-1','1-3-1','1-3-1'),[[.68,.5,'PG'],[.8,.88,'SG'],[.8,.12,'SF'],[.94,.3,'PF'],[.79,.5,'C']])}};
 const BK_DEF={5:{
+ tip:FN(BK_TIP,[bkr(180,'PG'),bkr(90,'SG'),bkr(270,'SF'),bkr(0,'PF'),bkc(.6,0,'C')]),
  man:FN(PL('マンツーマン','Man-to-man','人盯人','人盯人'),[[.756,.5,'PG'],[.82,.73,'SG'],[.82,.27,'SF'],[.934,.8,'PF'],[.934,.2,'C']]),
  z23:FN(PL('2-3ゾーン','2-3 zone','2-3联防','2-3區域'),[[.78,.35,'PG'],[.78,.65,'SG'],[.92,.2,'SF'],[.92,.8,'PF'],[.93,.5,'C']]),
  z32:FN(PL('3-2ゾーン','3-2 zone','3-2联防','3-2區域'),[[.73,.5,'PG'],[.79,.2,'SG'],[.79,.8,'SF'],[.9,.37,'PF'],[.9,.63,'C']]),
@@ -413,6 +418,7 @@ const BK_DEF={5:{
 const hbArc=(r,deg)=>[(40-r*Math.cos(deg*Math.PI/180))/40,(10+r*Math.sin(deg*Math.PI/180))/20];
 const hbD=(r,deg)=>[...hbArc(r,deg),'D'];
 const HB_OFF={7:{
+ throwoff:FN(PL('スローオフ（試合開始）','Throw-off (start)','开球（开场）','開球（開場）'),[[.0125,.5,'GK'],[.45,.06,'LW'],[.38,.27,'LB'],[.49,.5,'CB'],[.38,.73,'RB'],[.45,.94,'RW'],[.44,.4,'PV']]),
  '33':FN(PL('3-3','3-3','3-3','3-3'),[[.0125,.5,'GK'],[.95,.06,'LW'],[.75,.26,'LB'],[.72,.5,'CB'],[.75,.74,'RB'],[.95,.94,'RW'],[.84,.5,'PV']]),
  '2pv':FN(PL('2ポスト','Two pivots','双底线','雙底線'),[[.0125,.5,'GK'],[.95,.06,'LW'],[.74,.3,'LB'],[.74,.7,'RB'],[.95,.94,'RW'],[.84,.38,'PV'],[.84,.62,'PV']])}};
 const HB_DEF={7:{
@@ -423,8 +429,10 @@ const HB_DEF={7:{
 const V6=[[.46,.7,'S'],[.875,.7,'OH'],[.875,.5,'MB'],[.875,.3,'OP'],[.46,.3,'OH'],[.46,.5,'MB']]; // slot k = rotation position k+1
 const VB6={6:{base:FN(PL('ローテーション1（Sが後衛ライト）','Rotation 1 (setter in 1)','轮转1（二传在1号位）','輪轉1（舉球員在1號位）'),V6)},
  7:{base:FN(PL('ローテーション1＋リベロ','Rotation 1 + libero','轮转1＋自由人','輪轉1＋自由球員'),[...V6,[.12,.9,'L']])}};
+const VB6S={6:{serve:FN(PL('サーブ（ローテーション1・試合開始）','Serve (rotation 1, start)','发球（轮转1・开场）','發球（輪轉1・開場）'),[[.13,.7,'S'],...V6.slice(1)]),...VB6[6]},7:VB6[7]};
 const VB9={9:{base:FN(PL('基本（前衛・中衛・後衛）','Basic (3 rows)','基本（三排）','基本（三排）'),
  [[.885,.33,'FL'],[.885,.5,'FC'],[.885,.67,'FR'],[.615,.33,'ML'],[.615,.5,'MC'],[.615,.67,'MR'],[.31,.33,'BL'],[.31,.5,'BC'],[.31,.67,'BR']])}};
+const VB9S={9:{serve:FN(PL('サーブ（試合開始）','Serve (start)','发球（开场）','發球（開場）'),[...VB9[9].base.s.slice(0,8),[.1,.67,'BR']]),...VB9[9]}};
 /* ---- dodgeball (court 20 x 10 m + 3 m outer zone: 26 x 16 m) ---- */
 function dgInner(n){const r=[],rows=Math.max(1,Math.ceil(n/4));let k=0;
   for(let i=0;i<rows;i++){const m=Math.ceil((n-k)/(rows-i));for(let j=0;j<m;j++)r.push([.36+(rows==1?.27:i*(.44/(rows-1))),.26+(j+.5)*(.48/m),'IN']);k+=m}return r}
@@ -443,9 +451,11 @@ function dgReclass(){
 }
 const dgGen=(ti,n)=>n<2?dgInner(n):[...dgInner(n-1),DG_OUT[0]];
 /* ---- tag rugby (field 40 x 30 m + 5 m in-goal: 50 x 30 m) ---- */
+const TR0={5:{start:FN(PL('キックオフ（試合開始）','Kick-off (start)','开球（开场）','開球（開場）'),[[.8,.15,'X'],[.8,.325,'X'],[.98,.5,'X'],[.8,.675,'X'],[.8,.85,'X']])}};
 const TR={5:{flat:FN(PL('フラット（横一列）','Flat line','平行站位','平行站位'),[[.8,.15,'X'],[.8,.325,'X'],[.8,.5,'X'],[.8,.675,'X'],[.8,.85,'X']]),
  wedge:FN(PL('くさび形','Wedge','楔形','楔形'),[[.86,.5,'X'],[.77,.34,'X'],[.77,.66,'X'],[.68,.18,'X'],[.68,.82,'X']]),
  deep:FN(PL('2列（深め）','Two lines (deep)','两排（纵深）','兩排（縱深）'),[[.84,.3,'X'],[.84,.7,'X'],[.7,.15,'X'],[.7,.5,'X'],[.7,.85,'X']])}};
+TR0[5]={...TR0[5],...TR[5]};
 const trGen=(ti,n)=>Array.from({length:n},(_,j)=>[.8,(j+.5)/n,'X']);
 /* ---- baseball family: home at the bottom, field opens upward ---- */
 function bbSport(o){
@@ -478,23 +488,23 @@ const SPORTS={
  soccer:{len:105,wid:68,kind:'fb',emoji:'⚽',zones:true},
  soccer8:{len:68,wid:50,kind:'fb',emoji:'⚽',def:[[8,'3-3-1'],[8,'2-3-2']],draw:drawSoccer8},
  futsal:{len:40,wid:20,kind:'fb',emoji:'🥅',surface:'wood',cnt:[[1,7],[1,7]],def:[[5,'1-2-1'],[5,'2-2']],draw:drawFutsal},
- basketball:{len:28,wid:15,kind:'abs',emoji:'🏀',ball:'basket',surface:'wood',names:['offense','defense'],cnt:[[1,5],[1,5]],def:[[5,'5out'],[5,'man']],
-   forms:[BK_OFF,BK_DEF],face:[[.944,.5],null],ballXY:[.64,.5],regs:['PG','SG','SF','PF','C'],shape:BK_SHAPE,draw:()=>drawBasket(true)},
- minibasket:{len:28,wid:15,kind:'abs',emoji:'🏀',ball:'basket',surface:'wood',names:['offense','defense'],cnt:[[1,5],[1,5]],def:[[5,'5out'],[5,'man']],
-   forms:[BK_OFF,BK_DEF],face:[[.944,.5],null],ballXY:[.64,.5],regs:['PG','SG','SF','PF','C'],shape:BK_SHAPE,draw:()=>drawBasket(false)},
- volley6:{len:24,wid:15,kind:'own',emoji:'🏐',ball:'volley',surface:'volley',cnt:[[1,7],[1,7]],def:[[6,'base'],[6,'base']],forms:[VB6,VB6],rotate:true,
-   ballXY:[.15,.7],regs:['S','OH','MB','OP','L'],shape:{S:'FW',OH:'MF',OP:'MF',MB:'DF',L:'GK'},draw:()=>drawVolley(6)},
- volley9:{len:26,wid:15.5,kind:'own',emoji:'🏐',ball:'volley',surface:'volley',cnt:[[1,9],[1,9]],def:[[9,'base'],[9,'base']],forms:[VB9,VB9],
-   ballXY:[.08,.6],regs:['FL','FC','FR','ML','MC','MR','BL','BC','BR'],shape:{FL:'FW',FC:'FW',FR:'FW',ML:'MF',MC:'MF',MR:'MF',BL:'DF',BC:'DF',BR:'DF'},draw:()=>drawVolley(9)},
- handball:{len:40,wid:20,kind:'abs',emoji:'🤾',ball:'hand',surface:'wood',names:['offense','defense'],cnt:[[1,7],[1,7]],def:[[7,'33'],[7,'60']],
-   forms:[HB_OFF,HB_DEF],face:[[1,.5],null],ballXY:[.69,.5],regs:['GK','LW','LB','CB','RB','RW','PV','D'],shape:{GK:'GK',LW:'FW',RW:'FW',PV:'FW',LB:'MF',CB:'MF',RB:'MF',D:'DF'},draw:drawHandball},
+ basketball:{len:28,wid:15,kind:'abs',emoji:'🏀',ball:'basket',surface:'wood',names:['offense','defense'],cnt:[[1,5],[1,5]],def:[[5,'tip'],[5,'tip']],
+   forms:[BK_OFF,BK_DEF],face:[[.944,.5],null],ballXY:[.5,.5],regs:['PG','SG','SF','PF','C'],shape:BK_SHAPE,draw:()=>drawBasket(true)},
+ minibasket:{len:28,wid:15,kind:'abs',emoji:'🏀',ball:'basket',surface:'wood',names:['offense','defense'],cnt:[[1,5],[1,5]],def:[[5,'tip'],[5,'tip']],
+   forms:[BK_OFF,BK_DEF],face:[[.944,.5],null],ballXY:[.5,.5],regs:['PG','SG','SF','PF','C'],shape:BK_SHAPE,draw:()=>drawBasket(false)},
+ volley6:{len:24,wid:15,kind:'own',emoji:'🏐',ball:'volley',surface:'volley',cnt:[[1,7],[1,7]],def:[[6,'serve'],[6,'base']],forms:[VB6S,VB6],rotate:true,
+   ballXY:[.075,.63],regs:['S','OH','MB','OP','L'],shape:{S:'FW',OH:'MF',OP:'MF',MB:'DF',L:'GK'},draw:()=>drawVolley(6)},
+ volley9:{len:26,wid:15.5,kind:'own',emoji:'🏐',ball:'volley',surface:'volley',cnt:[[1,9],[1,9]],def:[[9,'serve'],[9,'base']],forms:[VB9S,VB9],
+   ballXY:[.06,.6],regs:['FL','FC','FR','ML','MC','MR','BL','BC','BR'],shape:{FL:'FW',FC:'FW',FR:'FW',ML:'MF',MC:'MF',MR:'MF',BL:'DF',BC:'DF',BR:'DF'},draw:()=>drawVolley(9)},
+ handball:{len:40,wid:20,kind:'abs',emoji:'🤾',ball:'hand',surface:'wood',names:['offense','defense'],cnt:[[1,7],[1,7]],def:[[7,'throwoff'],[7,'60']],
+   forms:[HB_OFF,HB_DEF],face:[[1,.5],null],ballXY:[.52,.5],regs:['GK','LW','LB','CB','RB','RW','PV','D'],shape:{GK:'GK',LW:'FW',RW:'FW',PV:'FW',LB:'MF',CB:'MF',RB:'MF',D:'DF'},draw:drawHandball},
  dodgeball:{len:26,wid:16,kind:'own',emoji:'🔴',ball:'dodge',surface:'wood',cnt:[[1,15],[1,15]],def:[[12,'o1'],[12,'o1']],forms:[DG,DG],gen:dgGen,
    ballXY:[.5,.5],regs:['IN','OUT'],shape:{IN:'MF',OUT:'FW'},draw:drawDodge},
  baseball:bbSport({b:27.43,m:18.44,lf:76,cf:90}), /* outfield drawn shorter than real so the infield stays readable */
  youthbaseball:bbSport({b:23,m:16,lf:62,cf:72}),
  softball:bbSport({b:18.29,m:13.11,lf:50,cf:56,ball:'softball'}),
- tagrugby:{len:50,wid:30,kind:'own',emoji:'🏉',ball:'rugby',surface:'grass',cnt:[[1,8],[1,8]],def:[[5,'flat'],[5,'flat']],forms:[TR,TR],gen:trGen,noPos:true,
-   ballXY:[.4,.5],regs:[],shape:{},draw:drawTagRugby},
+ tagrugby:{len:50,wid:30,kind:'own',emoji:'🏉',ball:'rugby',surface:'grass',cnt:[[1,8],[1,8]],def:[[5,'start'],[5,'flat']],forms:[TR0,TR],gen:trGen,noPos:true,
+   ballXY:[.52,.5],regs:[],shape:{},draw:drawTagRugby},
  hockey:{len:91.4,wid:55,kind:'fb',emoji:'🏑',ball:'hockey',surface:'turf',draw:drawHockey}
 };
 SPORTS.baseball.emoji=SPORTS.youthbaseball.emoji='⚾';SPORTS.softball.emoji='🥎';
@@ -732,25 +742,25 @@ rotate:'ローテーション（時計回りに1つ）',offense:'オフェンス
 formHintG:'並び方を選ぶと、その形に並び直します。プリセットにない人数は自動で並びます。',rosterHintG:'ポジションを入れると、並び方を変えても そのポジションの場所に並びます。入れ終わったら「この配置に並べ直す」で並び直せます。',
 tOtherSport:'このファイルは「{s}」用です。45 Tactics Multiで開いてください',tSport:'{s}に切り替えました',
 print:'印刷・画像で保存',pTitle:'タイトル',pTitlePh:'例：11/3 練習試合',pDate:'日付',pContent:'内容',pCurrent:'今の盤面',pScenes:'保存した場面',pPer:'1ページの図',pRoster:'名簿を入れる',pMemo:'メモ欄を入れる',pBW:'白黒向けにする',pDo:'印刷・PDF',pImg:'画像で保存',
-pHint:'印刷画面で「PDFとして保存」を選ぶとPDFになります。iPhone・iPadで印刷できないときは「画像で保存」をお使いください。',memo:'メモ',tImg:'画像を書き出しました',noScenes:'保存した場面がありません',dgCount:'{t}：内野{a}人・外野{b}人'});
+pHint:'印刷画面で「PDFとして保存」を選ぶとPDFになります。iPhone・iPadで印刷できないときは「画像で保存」をお使いください。',memo:'メモ',tImg:'画像を書き出しました',noScenes:'保存した場面がありません',dgCount:'{t}：内野{a}人・外野{b}人',resetStart:'試合開始の配置に戻す',tResetStart:'試合開始の配置に戻しました（元に戻す で復元できます）'});
 Object.assign(I18N.en,{sport:'Sport',chooseSport:'Choose a sport',titleM:'Sports tactics board',aboutTextM:'A free, ad-free tactics board for many sports. Everything you enter is saved only on this device and is never visible to anyone else.',
 rotate:'Rotate (one position clockwise)',offense:'Offense',defense:'Defense',bbDef:'Fielding',bbOff:'Batting',bg_court:'Court (default)',bg_field:'Field (default)',
 formHintG:'Choose a formation to line the players up. Other team sizes are arranged automatically.',rosterHintG:'Set a position and the player goes to that spot when you change formation. Tap “Reset to this formation” when you are done.',
 tOtherSport:'This file is for {s}. Please open it in 45 Tactics Multi',tSport:'Switched to {s}',
 print:'Print / save image',pTitle:'Title',pTitlePh:'e.g. Practice match, 3 Nov',pDate:'Date',pContent:'Content',pCurrent:'Current board',pScenes:'Saved scenes',pPer:'Boards per page',pRoster:'Include roster',pMemo:'Include notes box',pBW:'Black & white',pDo:'Print / PDF',pImg:'Save as image',
-pHint:'Choose “Save as PDF” in the print dialog to make a PDF. If printing does not work on iPhone/iPad, use “Save as image”.',memo:'Notes',tImg:'Image exported',noScenes:'No saved scenes',dgCount:'{t}: {a} in / {b} out'});
+pHint:'Choose “Save as PDF” in the print dialog to make a PDF. If printing does not work on iPhone/iPad, use “Save as image”.',memo:'Notes',tImg:'Image exported',noScenes:'No saved scenes',dgCount:'{t}: {a} in / {b} out',resetStart:'Reset to start positions',tResetStart:'Reset to start positions (Undo to restore)'});
 Object.assign(I18N['zh-Hans'],{sport:'项目',chooseSport:'选择运动项目',titleM:'运动战术板',aboutTextM:'免费、无广告、支持多种运动的战术板。输入的内容只保存在本设备中，其他人看不到。',
 rotate:'轮转（顺时针移动一个位置）',offense:'进攻',defense:'防守',bbDef:'守备',bbOff:'进攻',bg_court:'球场（默认）',bg_field:'场地（默认）',
 formHintG:'选择阵型后按该形状重新排列。预设以外的人数会自动排列。',rosterHintG:'设置位置后，更换阵型时球员会站到该位置。设置完成后点击“按此阵型重新排列”。',
 tOtherSport:'此文件用于「{s}」，请在 45 Tactics Multi 中打开',tSport:'已切换为{s}',
 print:'打印・保存图片',pTitle:'标题',pTitlePh:'例：11/3 练习赛',pDate:'日期',pContent:'内容',pCurrent:'当前布阵',pScenes:'已保存的场景',pPer:'每页图数',pRoster:'包含名单',pMemo:'包含备注栏',pBW:'黑白打印',pDo:'打印・PDF',pImg:'保存为图片',
-pHint:'在打印画面选择“存储为PDF”即可生成PDF。iPhone/iPad 无法打印时，请使用“保存为图片”。',memo:'备注',tImg:'已导出图片',noScenes:'没有已保存的场景',dgCount:'{t}：内场{a}人・外场{b}人'});
+pHint:'在打印画面选择“存储为PDF”即可生成PDF。iPhone/iPad 无法打印时，请使用“保存为图片”。',memo:'备注',tImg:'已导出图片',noScenes:'没有已保存的场景',dgCount:'{t}：内场{a}人・外场{b}人',resetStart:'恢复开场站位',tResetStart:'已恢复开场站位（可撤销）'});
 Object.assign(I18N['zh-Hant'],{sport:'項目',chooseSport:'選擇運動項目',titleM:'運動戰術板',aboutTextM:'免費、無廣告、支援多種運動的戰術板。輸入的內容只會儲存在這台裝置中，其他人看不到。',
 rotate:'輪轉（順時針移動一個位置）',offense:'進攻',defense:'防守',bbDef:'守備',bbOff:'進攻',bg_court:'球場（預設）',bg_field:'場地（預設）',
 formHintG:'選擇陣型後依該形狀重新排列。預設以外的人數會自動排列。',rosterHintG:'設定位置後，變更陣型時球員會站到該位置。設定完成後點「依此陣型重新排列」。',
 tOtherSport:'此檔案用於「{s}」，請在 45 Tactics Multi 中開啟',tSport:'已切換為{s}',
 print:'列印・儲存圖片',pTitle:'標題',pTitlePh:'例：11/3 練習賽',pDate:'日期',pContent:'內容',pCurrent:'目前布陣',pScenes:'已儲存的場景',pPer:'每頁圖數',pRoster:'包含名單',pMemo:'包含備註欄',pBW:'黑白列印',pDo:'列印・PDF',pImg:'儲存為圖片',
-pHint:'在列印畫面選擇「儲存為PDF」即可產生PDF。iPhone/iPad 無法列印時，請使用「儲存為圖片」。',memo:'備註',tImg:'已匯出圖片',noScenes:'沒有已儲存的場景',dgCount:'{t}：內場{a}人・外場{b}人'});
+pHint:'在列印畫面選擇「儲存為PDF」即可產生PDF。iPhone/iPad 無法列印時，請使用「儲存為圖片」。',memo:'備註',tImg:'已匯出圖片',noScenes:'沒有已儲存的場景',dgCount:'{t}：內場{a}人・外場{b}人',resetStart:'恢復開場站位',tResetStart:'已恢復開場站位（可復原）'});
 const LANG_NAMES={ja:'日本語',en:'English','zh-Hans':'简体中文','zh-Hant':'繁體中文'};
 function detectLang(){
   const l=(navigator.language||'en').toLowerCase();
@@ -1502,6 +1512,9 @@ function switchSport(id){
 $('bSport').onclick=$('bSport2').onclick=()=>{renderSports();$('dSport').showModal()};
 $('sportList').addEventListener('click',e=>{const b=e.target.closest('[data-sport]');if(!b)return;$('dSport').close();if(b.dataset.sport!=SPID){switchSport(b.dataset.sport);toast(t('tSport',{s:sportName(SPID)}))}});
 $('bRotate').onclick=()=>rotateTeam(0);
+$('bReset').onclick=()=>{pushUndo();
+  S.teams.forEach((tm,ti)=>{const f=SP.def[ti];if(tm.count==f[0])tm.formation=f[1];else{const fs=formsFor(tm.count,ti);tm.formation=fs[0]||'auto'}tm.players.forEach(p=>{delete p.role;delete p.home});applyFormation(ti)});
+  S.ball={x:SP.ballXY[0]*W,y:SP.ballXY[1]*H};sel=null;msel=null;render();save();toast(t('tResetStart'))};
 
 /* ---------- print & image ---------- */
 const BOARD_CSS='text{font-family:"Zen Kaku Gothic New","Hiragino Sans","Hiragino Kaku Gothic ProN",system-ui,sans-serif}.num{font-family:"Barlow Condensed","Arial Narrow",sans-serif;font-weight:700;text-anchor:middle}.nm{font-weight:700;text-anchor:middle;fill:#fff;paint-order:stroke;stroke:#123A24;stroke-width:.5px;stroke-linejoin:round}.note{font-weight:700;text-anchor:middle;paint-order:stroke;stroke:rgba(0,0,0,.72);stroke-width:.6px;stroke-linejoin:round}.zl{font-weight:700;fill:rgba(255,255,255,.6)}';
